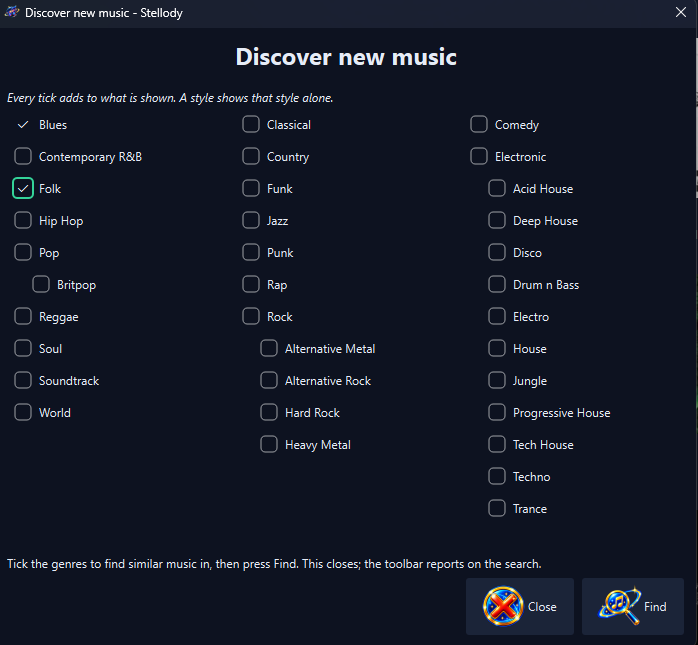
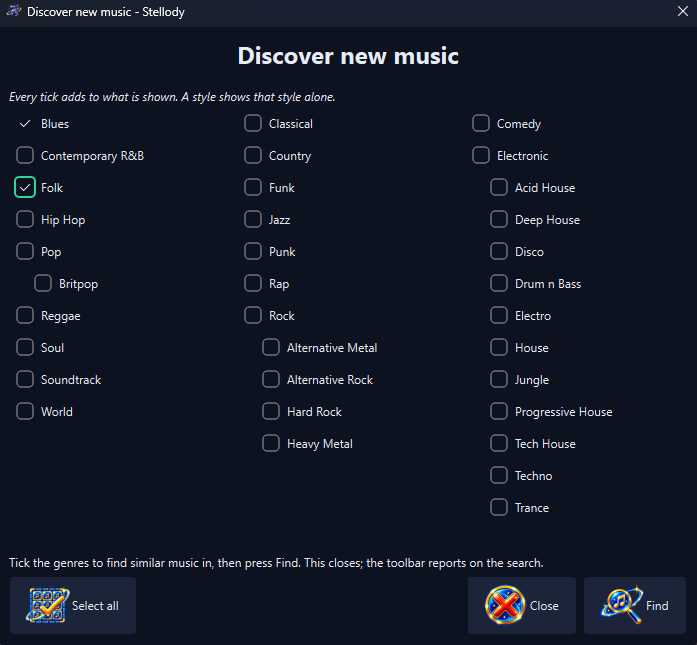
Recapture the shots the last two changes dated
The discovery window now carries the Select all button and the album pane's close button now wears the close picture, so all three shots showed an application that no longer exists.

The alt text for the discovery shot followed: it named Close and Find at the foot as though they were all there was, which stopped being true the moment the sweep arrived beside them.

diff --git a/docs/features.html b/docs/features.html
@@ -317,7 +317,7 @@
   </div>
 
   <div class="shot" style="margin-top:2.5rem;">
-    <img src="screenshots/discover.png" width="698" height="645" alt="The Discover new music window: the same genre catalogue the filter uses, laid out in three columns of tick boxes, with the styles indented under the mains that carry them. Blues and Folk are ticked. A line above says that every tick adds to what is shown and that a style shows that style alone; a line below says to tick the genres to look in, then press Find, which closes the window while the toolbar reports on the search. Close and Find sit at the foot, each wearing its own picture.">
+    <img src="screenshots/discover.png" width="698" height="645" alt="The Discover new music window: the same genre catalogue the filter uses, laid out in three columns of tick boxes, with the styles indented under the mains that carry them. Blues and Folk are ticked. A line above says that every tick adds to what is shown and that a style shows that style alone; a line below says to tick the genres to look in, then press Find, which closes the window while the toolbar reports on the search. Select all sits at the left of the foot with Close and Find at the right, each wearing its own picture.">
   </div>
   <p class="shot-caption">Tick what to look in. Find closes this window; the search then reports from the toolbar.</p>
 
